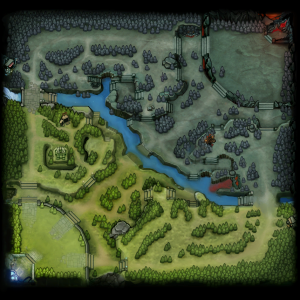
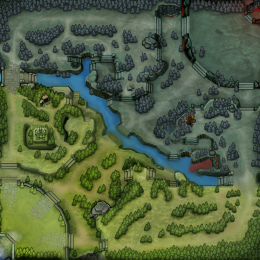
* Cropped out black surroundings in dota minimap * Added css for minimap overlay * Added tower coords * Prototype tower overlay on minimap using SVG

diff --git a/static/js/dota.js b/static/js/dota.js
@@ -211,12 +211,39 @@ var dota = (function() {
 
     /* View functions */
     
-    //TODO: Coordinates of towers and raxes. 
+    function Coord(x, y) {
+        this.x = x;
+        this.y = y;
+    }
+
+    //TODO: Coordinates of towers and raxes, assuming 260x260 units
     //Indexes correspond to the bit in the state value
     var tower_coords = {
         radiant: [
+            new Coord(220, 240), //bot 1
+            new Coord(120, 240), //bot 2
+            new Coord(65, 240), //bot 3
+            new Coord(103, 155), //middle 1
+            new Coord(70, 180), //middle 2
+            new Coord(50, 200), //middle 3
+            new Coord(20, 95), //top 1
+            new Coord(20, 145), //top 2
+            new Coord(12, 185), //top 3
+            new Coord(35, 230), //ancient bot
+            new Coord(20, 215), //ancient top
         ],
         dire: [
+            new Coord(240, 160), //bot 1
+            new Coord(245, 124), //bot 2
+            new Coord(245, 82), //bot 3
+            new Coord(150, 123), //middle 1
+            new Coord(175, 92), //middle 2
+            new Coord(200, 68), //middle 3
+            new Coord(45, 20), //top 1
+            new Coord(130, 20), //top 2
+            new Coord(190, 25), //top 3
+            new Coord(235, 45), //ancient bot
+            new Coord(220, 30), //ancient top
         ],
     };
     var rax_coords = {
@@ -225,8 +252,42 @@ var dota = (function() {
         dire: [
         ],
     };
+
+    function v_tower_overlay(coords, tower_state) {
+        var towers = [], coord;
+        for (bit in coords) {
+            coord = coords[bit];
+            //Tower is alive
+            if (tower_state & (1 << bit))
+            {
+                towers.push(m("circle", {
+                    cx: coord.x,
+                    cy: coord.y,
+                    r: 2,
+                }));
+            }
+            //TODO: tower is dead
+        }
+        return towers;
+    }
+
     //TODO: Render SVG overlay of the minimap (tower/rax states)
     function v_map_overlay(game) {
+        var overlay = [];
+        overlay = overlay.concat(
+            v_tower_overlay(tower_coords.radiant, game.radiant_towers()),
+            v_tower_overlay(tower_coords.dire, game.dire_towers())
+            //TODO: raxes
+        );
+        return m("div.overlay-wrap", [
+            m("img.minimap", {
+                src: "/static/img/dota_minimap.png",
+            }),
+            m("svg.overlay.minimap", {
+                //Rax/tower coords are based on 260x260 user units
+                viewBox: "0 0 260 260",
+            }, overlay),
+        ]);
     }
 
     function v_simple_game_table(game) {
@@ -289,6 +350,7 @@ var dota = (function() {
             m("div", game.duration_str()),
             //Team scores and players table
             v_simple_game_table(game),
+            v_map_overlay(game),
         ]);
     }
 

diff --git a/static/css/dotaware.css b/static/css/dotaware.css
@@ -1,3 +1,20 @@
+/* Overlaying an element on top of another */
+.overlay-wrap {
+    position: relative;
+    display: inline-block;
+}
+
+.overlay {
+    position: absolute;
+    top: 0;
+    left: 0;
+}
+
+.minimap {
+    width: 100px;
+    height: 100px;
+}
+
 /* Generated by http://css.spritegen.com CSS Sprite Generator */
  
 /* TODO: to be optimized? */
